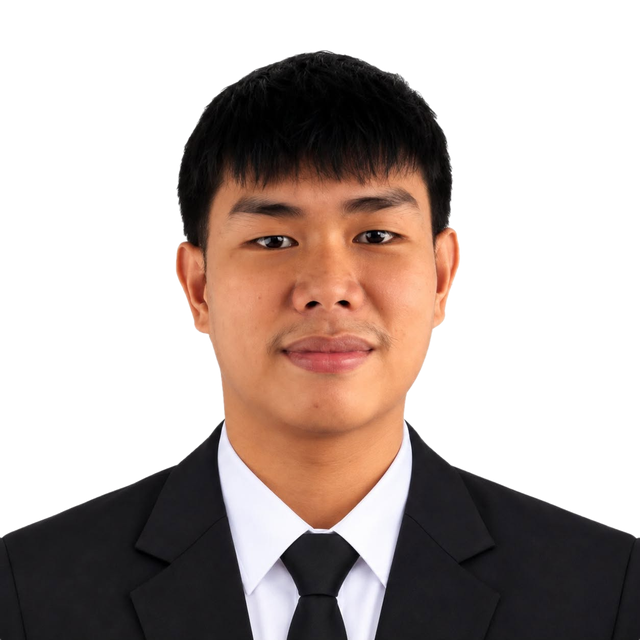
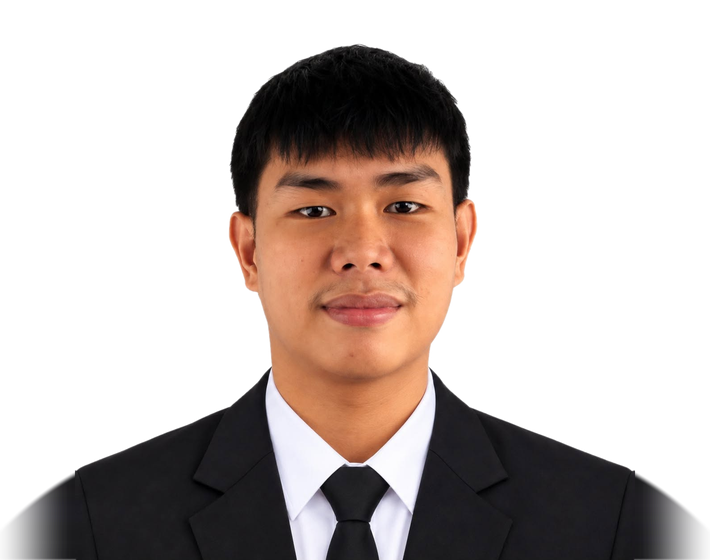
feat(landing): add Krystel's photo and soften team photo shoulders
Shoulders are extended outward with a sloped, faded edge so the cropped
photo sides no longer end in a hard vertical line.

diff --git a/electroforecast-website/index.html b/electroforecast-website/index.html
@@ -126,23 +126,23 @@
       </div>
       <div class="lp-team">
         <article class="lp-member">
-          <img class="lp-member-photo" src="assets/images/team/carmela.png" alt="Photo of Krystel Ann F. Galabo" width="640" height="640" loading="lazy">
+          <img class="lp-member-photo" src="assets/images/team/krystel.png" alt="Photo of Krystel Ann F. Galabo" width="710" height="560" loading="lazy">
           <div class="lp-member-info"><h3>Krystel Ann F. Galabo</h3><p>Project Manager</p></div>
         </article>
         <article class="lp-member">
-          <img class="lp-member-photo" src="assets/images/team/greence.png" alt="Photo of Greence Mark P. Fontillas" width="640" height="640" loading="lazy">
+          <img class="lp-member-photo" src="assets/images/team/greence.png" alt="Photo of Greence Mark P. Fontillas" width="710" height="560" loading="lazy">
           <div class="lp-member-info"><h3>Greence Mark P. Fontillas</h3><p>Developer</p></div>
         </article>
         <article class="lp-member">
-          <img class="lp-member-photo" src="assets/images/team/carmela.png" alt="Photo of Carmela D. Tingson" width="640" height="640" loading="lazy">
+          <img class="lp-member-photo" src="assets/images/team/carmela.png" alt="Photo of Carmela D. Tingson" width="710" height="560" loading="lazy">
           <div class="lp-member-info"><h3>Carmela D. Tingson</h3><p>Researcher</p></div>
         </article>
         <article class="lp-member">
-          <img class="lp-member-photo" src="assets/images/team/john-robert.png" alt="Photo of John Robert G. Bernardo" width="640" height="640" loading="lazy">
+          <img class="lp-member-photo" src="assets/images/team/john-robert.png" alt="Photo of John Robert G. Bernardo" width="710" height="560" loading="lazy">
           <div class="lp-member-info"><h3>John Robert G. Bernardo</h3><p>Researcher</p></div>
         </article>
         <article class="lp-member">
-          <img class="lp-member-photo" src="assets/images/team/julius.png" alt="Photo of Julius E. Pardillo" width="640" height="640" loading="lazy">
+          <img class="lp-member-photo" src="assets/images/team/julius.png" alt="Photo of Julius E. Pardillo" width="710" height="560" loading="lazy">
           <div class="lp-member-info"><h3>Julius E. Pardillo</h3><p>Researcher</p></div>
         </article>
       </div>

diff --git a/electroforecast-website/assets/css/style.css b/electroforecast-website/assets/css/style.css
@@ -1114,7 +1114,7 @@ body.landing{background:var(--surface); font-size:15px;}
   background:linear-gradient(120deg,#0C2E5C 0%,#071A3B 70%); transform:skewX(-14deg);
   box-shadow:0 14px 30px rgba(7,21,46,.18), inset 0 1px 0 rgba(255,255,255,.08);}
 .lp-member::after{content:""; position:absolute; left:0; right:0; bottom:0; height:3px; z-index:-1; border-radius:0 0 18px 18px; background:linear-gradient(90deg,#00D9ED,#087EFF); transform:skewX(-14deg);}
-.lp-member-photo{width:200px; height:200px; flex-shrink:0; object-fit:contain; object-position:bottom; margin-left:8px; filter:drop-shadow(0 8px 14px rgba(2,8,23,.35));}
+.lp-member-photo{width:auto; height:200px; max-width:56%; flex-shrink:0; object-fit:contain; object-position:bottom; margin-left:-6px; filter:drop-shadow(0 8px 14px rgba(2,8,23,.3));}
 .lp-member-info{align-self:stretch; display:flex; flex-direction:column; justify-content:center; padding:64px 24px 0 6px; min-width:0;}
 .lp-member h3{color:#fff; font-size:18px; line-height:1.3; letter-spacing:-.01em;}
 .lp-member p{color:#22D9F4; font-size:15px; font-weight:600; margin:4px 0 0;}
@@ -1168,7 +1168,7 @@ body.landing{background:var(--surface); font-size:15px;}
   .lp-footer-inner{flex-direction:column; align-items:flex-start;}
   .lp-team{gap:32px; padding:0 12px;}
   .lp-member::before{inset:48px 0 0 0;}
-  .lp-member-photo{width:136px; height:136px; margin-left:4px;}
+  .lp-member-photo{height:128px; margin-left:-4px;}
   .lp-member-info{padding:48px 14px 0 2px;}
   .lp-member h3{font-size:15px;}
   .lp-member p{font-size:13px;}
